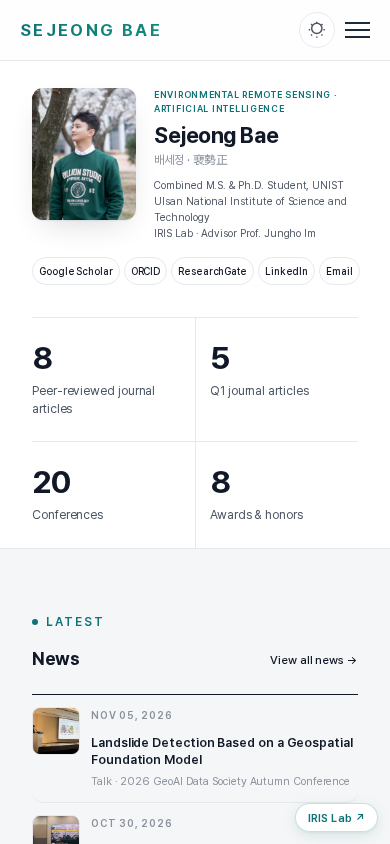
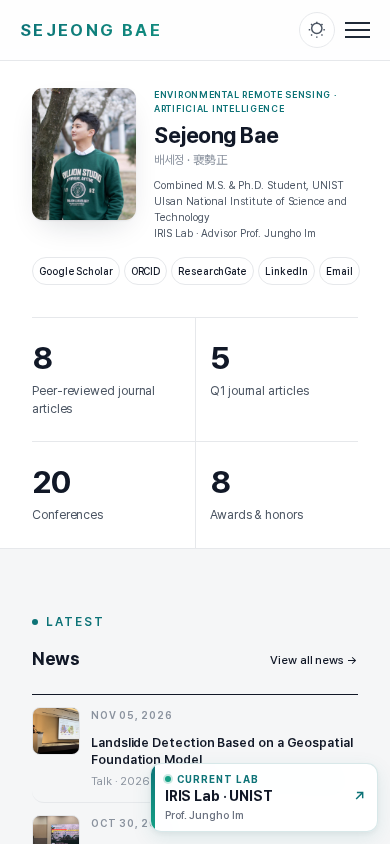
Redesign IRIS float as affiliated-lab card badge
Replace the small pill with a ~248px glass card: CURRENT LAB label, IRIS Lab · UNIST with arrow, and advisor line; KO i18n and dark mode; cache bump v20261125b.

Changed region(s): [[0.3692, 0.8934, 0.7385, 0.9858], [0.7385, 0.9242, 0.9538, 0.9858]]

diff --git a/css/design-refresh.css b/css/design-refresh.css
@@ -581,59 +581,164 @@ body{background:#f5f6f7 !important;font-family:var(--font-sans);letter-spacing:-
 .nav-link.active::after,.nav-link::after{display:none !important}
 .footer{background:transparent !important;border-top:1px solid #e6e8eb;color:#8a929e;font-size:13px}
 
-/* IRIS Lab floating link — all pages */
+/* IRIS Lab floating badge — all pages */
 .iris-lab-float {
   position: fixed;
   right: max(1rem, env(safe-area-inset-right, 0px));
   bottom: max(1rem, env(safe-area-inset-bottom, 0px));
   z-index: 900;
-  display: inline-flex;
-  align-items: center;
-  padding: 0.45rem 0.9rem;
-  font-size: 0.75rem;
-  font-weight: 600;
-  line-height: 1.25;
-  letter-spacing: 0.01em;
-  color: var(--primary-color);
-  background: rgba(255, 255, 255, 0.92);
-  border: 1px solid rgba(13, 115, 119, 0.22);
-  border-radius: 999px;
-  box-shadow: 0 4px 14px rgba(13, 115, 119, 0.12), 0 1px 3px rgba(0, 0, 0, 0.06);
+  display: flex;
+  align-items: stretch;
+  width: min(248px, calc(100vw - 1.75rem));
+  max-width: 260px;
+  min-width: 200px;
+  padding: 0;
+  border-radius: 12px;
+  overflow: hidden;
   text-decoration: none;
-  backdrop-filter: saturate(160%) blur(12px);
-  -webkit-backdrop-filter: saturate(160%) blur(12px);
-  transition: transform 0.2s ease, box-shadow 0.2s ease, color 0.2s ease, border-color 0.2s ease;
+  color: #111827;
+  background: rgba(255, 255, 255, 0.94);
+  border: 1px solid rgba(13, 115, 119, 0.16);
+  box-shadow: 0 6px 20px rgba(13, 115, 119, 0.1), 0 2px 6px rgba(0, 0, 0, 0.05);
+  backdrop-filter: saturate(160%) blur(14px);
+  -webkit-backdrop-filter: saturate(160%) blur(14px);
+  transition: transform 0.22s ease, box-shadow 0.22s ease, border-color 0.22s ease;
+}
+
+.iris-lab-float::before {
+  content: '';
+  width: 4px;
+  flex-shrink: 0;
+  background: linear-gradient(180deg, #0d7377 0%, #14a085 100%);
+}
+
+.iris-lab-float__body {
+  flex: 1;
+  min-width: 0;
+  padding: 0.62rem 0.85rem 0.58rem 0.72rem;
+  display: flex;
+  flex-direction: column;
+  gap: 0.12rem;
+}
+
+.iris-lab-float__label {
+  display: flex;
+  align-items: center;
+  gap: 0.35rem;
+  font-size: 0.625rem;
+  font-weight: 700;
+  letter-spacing: 0.1em;
+  text-transform: uppercase;
+  color: var(--primary-color, #0d7377);
+  line-height: 1.2;
+}
+
+.iris-lab-float__label::before {
+  content: '';
+  width: 6px;
+  height: 6px;
+  border-radius: 50%;
+  background: var(--accent-color, #14a085);
+  box-shadow: 0 0 0 2px rgba(20, 160, 133, 0.22);
+  flex-shrink: 0;
+}
+
+.iris-lab-float__main {
+  display: flex;
+  align-items: center;
+  justify-content: space-between;
+  gap: 0.4rem;
+  font-size: 0.9375rem;
+  font-weight: 600;
+  line-height: 1.35;
+  letter-spacing: -0.01em;
+  color: #111827;
+}
+
+.iris-lab-float__main-text {
+  min-width: 0;
+}
+
+.iris-lab-float__arrow {
+  flex-shrink: 0;
+  font-size: 0.9rem;
+  font-weight: 600;
+  color: var(--primary-color, #0d7377);
+  transition: transform 0.22s ease;
+}
+
+.iris-lab-float__sub {
+  font-size: 0.72rem;
+  font-weight: 500;
+  line-height: 1.3;
+  color: #6b7280;
 }
 
 .iris-lab-float:hover {
-  transform: translateY(-1px);
-  color: var(--accent-color);
-  border-color: rgba(20, 160, 133, 0.45);
-  box-shadow: 0 6px 18px rgba(13, 115, 119, 0.18), 0 2px 6px rgba(0, 0, 0, 0.08);
+  transform: translateY(-3px);
+  border-color: rgba(20, 160, 133, 0.32);
+  box-shadow: 0 10px 28px rgba(13, 115, 119, 0.14), 0 4px 10px rgba(0, 0, 0, 0.07);
+}
+
+.iris-lab-float:hover .iris-lab-float__arrow {
+  transform: translate(1px, -1px);
 }
 
 .iris-lab-float:focus-visible {
-  outline: 2px solid var(--accent-color);
-  outline-offset: 2px;
+  outline: 2px solid var(--accent-color, #14a085);
+  outline-offset: 3px;
 }
 
 html[data-theme='dark'] .iris-lab-float {
+  color: #e8ecf0;
+  background: rgba(22, 27, 33, 0.94);
+  border-color: rgba(95, 214, 180, 0.22);
+  box-shadow: 0 8px 24px rgba(0, 0, 0, 0.45);
+}
+
+html[data-theme='dark'] .iris-lab-float__label {
   color: #5fd6b4;
-  background: rgba(22, 27, 33, 0.92);
-  border-color: rgba(95, 214, 180, 0.28);
-  box-shadow: 0 4px 16px rgba(0, 0, 0, 0.45);
+}
+
+html[data-theme='dark'] .iris-lab-float__label::before {
+  background: #5fd6b4;
+  box-shadow: 0 0 0 2px rgba(95, 214, 180, 0.25);
+}
+
+html[data-theme='dark'] .iris-lab-float__main {
+  color: #f0f3f6;
+}
+
+html[data-theme='dark'] .iris-lab-float__arrow {
+  color: #5fd6b4;
+}
+
+html[data-theme='dark'] .iris-lab-float__sub {
+  color: #9aa5b1;
 }
 
 html[data-theme='dark'] .iris-lab-float:hover {
-  color: #7ee8c9;
-  border-color: rgba(95, 214, 180, 0.5);
+  border-color: rgba(95, 214, 180, 0.45);
 }
 
 @media (max-width: 480px) {
   .iris-lab-float {
     right: max(0.75rem, env(safe-area-inset-right, 0px));
     bottom: max(0.75rem, env(safe-area-inset-bottom, 0px));
-    font-size: 0.7rem;
-    padding: 0.4rem 0.75rem;
+    width: min(228px, calc(100vw - 1.25rem));
+    min-width: 0;
+    border-radius: 11px;
+  }
+
+  .iris-lab-float__body {
+    padding: 0.55rem 0.72rem 0.52rem 0.62rem;
+  }
+
+  .iris-lab-float__main {
+    font-size: 0.875rem;
+  }
+
+  .iris-lab-float__sub {
+    font-size: 0.69rem;
   }
 }

diff --git a/script.js b/script.js
@@ -98,7 +98,10 @@ const translations = {
             title: 'News'
         },
         float: {
-            irisLab: 'IRIS Lab ↗'
+            currentLab: 'CURRENT LAB',
+            irisMain: 'IRIS Lab · UNIST',
+            advisor: 'Prof. Jungho Im',
+            ariaLabel: 'Visit IRIS Lab at UNIST'
         }
     },
     ko: {
@@ -197,7 +200,10 @@ const translations = {
             title: '소식'
         },
         float: {
-            irisLab: 'IRIS 연구실 ↗'
+            currentLab: '현재 소속',
+            irisMain: 'IRIS Lab · UNIST',
+            advisor: '임정호 교수',
+            ariaLabel: 'UNIST IRIS 연구실 방문'
         }
     }
 };
@@ -226,6 +232,23 @@ function applyDataI18n(lang) {
             } else {
                 element.textContent = translation;
             }
+        }
+    });
+
+    document.querySelectorAll('[data-i18n-aria]').forEach((element) => {
+        const key = element.getAttribute('data-i18n-aria');
+        const keys = key.split('.');
+        let translation = translations[lang];
+        for (let i = 0; i < keys.length; i++) {
+            if (translation && translation[keys[i]]) {
+                translation = translation[keys[i]];
+            } else {
+                translation = null;
+                break;
+            }
+        }
+        if (translation) {
+            element.setAttribute('aria-label', translation);
         }
     });
 }

diff --git a/index.html b/index.html
@@ -8,7 +8,7 @@
     <script>(function(){try{var q=new URLSearchParams(location.search),qt=q.get("theme"),ql=q.get("lang");if(qt==="dark"||qt==="light")localStorage.setItem("site-theme",qt);if(ql==="ko"||ql==="en")localStorage.setItem("language",ql);var t=localStorage.getItem("site-theme");if(!t&&window.matchMedia&&matchMedia("(prefers-color-scheme: dark)").matches)t="dark";document.documentElement.setAttribute("data-theme",t==="dark"?"dark":"light");}catch(e){}})();</script>
     <link rel="icon" type="image/svg+xml" href="/favicon.svg">
     <link rel="stylesheet" href="style.css?v=20260427j">
-    <link rel="stylesheet" href="css/design-refresh.css?v=20261125a">
+    <link rel="stylesheet" href="css/design-refresh.css?v=20261125b">
     <link rel="stylesheet" href="css/home.css?v=20261016v3">
     <link rel="stylesheet" href="css/pages.css?v=20261101a">
 </head>
@@ -55,8 +55,8 @@
     </footer>
 
     <script src="js/site-render.js?v=20261016a"></script>
-    <script src="script.js?v=20261125a"></script>
-    <script src="js/design-refresh.js?v=20261125a"></script>
+    <script src="script.js?v=20261125b"></script>
+    <script src="js/design-refresh.js?v=20261125b"></script>
     <script src="js/home.js?v=20261016v3"></script>
     <script src="js/pages.js?v=20261017a"></script>
 </body>

diff --git a/about/index.html b/about/index.html
@@ -8,7 +8,7 @@
     <script>(function(){try{var q=new URLSearchParams(location.search),qt=q.get("theme"),ql=q.get("lang");if(qt==="dark"||qt==="light")localStorage.setItem("site-theme",qt);if(ql==="ko"||ql==="en")localStorage.setItem("language",ql);var t=localStorage.getItem("site-theme");if(!t&&window.matchMedia&&matchMedia("(prefers-color-scheme: dark)").matches)t="dark";document.documentElement.setAttribute("data-theme",t==="dark"?"dark":"light");}catch(e){}})();</script>
     <link rel="icon" type="image/svg+xml" href="/favicon.svg">
     <link rel="stylesheet" href="../style.css?v=20260427j">
-    <link rel="stylesheet" href="../css/design-refresh.css?v=20261125a">
+    <link rel="stylesheet" href="../css/design-refresh.css?v=20261125b">
     <link rel="stylesheet" href="../css/pages.css?v=20261101a">
 </head>
 <body class="page-v4">
@@ -125,8 +125,8 @@
 
     <script src="../data/site-data.js?v=20261030a"></script>
     <script src="../js/site-render.js?v=20261016a"></script>
-    <script src="../script.js?v=20261125a"></script>
-    <script src="../js/design-refresh.js?v=20261125a"></script>
+    <script src="../script.js?v=20261125b"></script>
+    <script src="../js/design-refresh.js?v=20261125b"></script>
     <script src="../js/pages.js?v=20261017a"></script>
 </body>
 </html>

diff --git a/conference/index.html b/conference/index.html
@@ -8,7 +8,7 @@
     <script>(function(){try{var q=new URLSearchParams(location.search),qt=q.get("theme"),ql=q.get("lang");if(qt==="dark"||qt==="light")localStorage.setItem("site-theme",qt);if(ql==="ko"||ql==="en")localStorage.setItem("language",ql);var t=localStorage.getItem("site-theme");if(!t&&window.matchMedia&&matchMedia("(prefers-color-scheme: dark)").matches)t="dark";document.documentElement.setAttribute("data-theme",t==="dark"?"dark":"light");}catch(e){}})();</script>
     <link rel="icon" type="image/svg+xml" href="/favicon.svg">
     <link rel="stylesheet" href="../style.css?v=20260427j">
-    <link rel="stylesheet" href="../css/design-refresh.css?v=20261125a">
+    <link rel="stylesheet" href="../css/design-refresh.css?v=20261125b">
     <link rel="stylesheet" href="../css/pages.css?v=20261101a">
 </head>
 <body class="page-v4">
@@ -71,8 +71,8 @@
 
     <script src="../data/site-data.js?v=20261030a"></script>
     <script src="../js/site-render.js?v=20261030e"></script>
-    <script src="../script.js?v=20261125a"></script>
-    <script src="../js/design-refresh.js?v=20261125a"></script>
+    <script src="../script.js?v=20261125b"></script>
+    <script src="../js/design-refresh.js?v=20261125b"></script>
     <script src="../js/pages.js?v=20261030d"></script>
 </body>
 </html>

diff --git a/others/index.html b/others/index.html
@@ -8,7 +8,7 @@
     <script>(function(){try{var q=new URLSearchParams(location.search),qt=q.get("theme"),ql=q.get("lang");if(qt==="dark"||qt==="light")localStorage.setItem("site-theme",qt);if(ql==="ko"||ql==="en")localStorage.setItem("language",ql);var t=localStorage.getItem("site-theme");if(!t&&window.matchMedia&&matchMedia("(prefers-color-scheme: dark)").matches)t="dark";document.documentElement.setAttribute("data-theme",t==="dark"?"dark":"light");}catch(e){}})();</script>
     <link rel="icon" type="image/svg+xml" href="/favicon.svg">
     <link rel="stylesheet" href="../style.css?v=20260427j">
-    <link rel="stylesheet" href="../css/design-refresh.css?v=20261125a">
+    <link rel="stylesheet" href="../css/design-refresh.css?v=20261125b">
     <link rel="stylesheet" href="../css/pages.css?v=20261101a">
 </head>
 <body class="page-v4">
@@ -69,8 +69,8 @@
 
     <script src="../data/site-data.js?v=20261030a"></script>
     <script src="../js/site-render.js?v=20261016a"></script>
-    <script src="../script.js?v=20261125a"></script>
-    <script src="../js/design-refresh.js?v=20261125a"></script>
+    <script src="../script.js?v=20261125b"></script>
+    <script src="../js/design-refresh.js?v=20261125b"></script>
     <script src="../js/pages.js?v=20261017a"></script>
 </body>
 </html>

diff --git a/publications/index.html b/publications/index.html
@@ -8,7 +8,7 @@
     <script>(function(){try{var q=new URLSearchParams(location.search),qt=q.get("theme"),ql=q.get("lang");if(qt==="dark"||qt==="light")localStorage.setItem("site-theme",qt);if(ql==="ko"||ql==="en")localStorage.setItem("language",ql);var t=localStorage.getItem("site-theme");if(!t&&window.matchMedia&&matchMedia("(prefers-color-scheme: dark)").matches)t="dark";document.documentElement.setAttribute("data-theme",t==="dark"?"dark":"light");}catch(e){}})();</script>
     <link rel="icon" type="image/svg+xml" href="/favicon.svg">
     <link rel="stylesheet" href="../style.css?v=20260427j">
-    <link rel="stylesheet" href="../css/design-refresh.css?v=20261125a">
+    <link rel="stylesheet" href="../css/design-refresh.css?v=20261125b">
     <link rel="stylesheet" href="../css/pages.css?v=20261101a">
 </head>
 <body class="page-v4">
@@ -62,8 +62,8 @@
 
     <script src="../data/site-data.js?v=20261030a"></script>
     <script src="../js/site-render.js?v=20261016a"></script>
-    <script src="../script.js?v=20261125a"></script>
-    <script src="../js/design-refresh.js?v=20261125a"></script>
+    <script src="../script.js?v=20261125b"></script>
+    <script src="../js/design-refresh.js?v=20261125b"></script>
     <script src="../js/pages.js?v=20261017a"></script>
 </body>
 </html>

diff --git a/news/index.html b/news/index.html
@@ -8,7 +8,7 @@
     <script>(function(){try{var q=new URLSearchParams(location.search),qt=q.get("theme"),ql=q.get("lang");if(qt==="dark"||qt==="light")localStorage.setItem("site-theme",qt);if(ql==="ko"||ql==="en")localStorage.setItem("language",ql);var t=localStorage.getItem("site-theme");if(!t&&window.matchMedia&&matchMedia("(prefers-color-scheme: dark)").matches)t="dark";document.documentElement.setAttribute("data-theme",t==="dark"?"dark":"light");}catch(e){}})();</script>
     <link rel="icon" type="image/svg+xml" href="/favicon.svg">
     <link rel="stylesheet" href="../style.css?v=20260427j">
-    <link rel="stylesheet" href="../css/design-refresh.css?v=20261125a">
+    <link rel="stylesheet" href="../css/design-refresh.css?v=20261125b">
     <link rel="stylesheet" href="../css/pages.css?v=20261101a">
 </head>
 <body class="page-v4">
@@ -64,8 +64,8 @@
     </footer>
 
     <script src="../js/site-render.js?v=20261016a"></script>
-    <script src="../script.js?v=20261125a"></script>
-    <script src="../js/design-refresh.js?v=20261125a"></script>
+    <script src="../script.js?v=20261125b"></script>
+    <script src="../js/design-refresh.js?v=20261125b"></script>
     <script src="../js/pages.js?v=20261017a"></script>
 </body>
 </html>

diff --git a/js/design-refresh.js b/js/design-refresh.js
@@ -44,9 +44,17 @@
     link.href = IRIS_LAB_URL;
     link.target = '_blank';
     link.rel = 'noopener noreferrer';
-    link.setAttribute('data-i18n', 'float.irisLab');
-    link.setAttribute('aria-label', 'IRIS Lab homepage');
-    link.textContent = 'IRIS Lab ↗';
+    link.setAttribute('data-i18n-aria', 'float.ariaLabel');
+    link.setAttribute('aria-label', 'Visit IRIS Lab at UNIST');
+    link.innerHTML =
+      '<span class="iris-lab-float__body">' +
+      '<span class="iris-lab-float__label" data-i18n="float.currentLab">CURRENT LAB</span>' +
+      '<span class="iris-lab-float__main">' +
+      '<span class="iris-lab-float__main-text" data-i18n="float.irisMain">IRIS Lab · UNIST</span>' +
+      '<span class="iris-lab-float__arrow" aria-hidden="true">↗</span>' +
+      '</span>' +
+      '<span class="iris-lab-float__sub" data-i18n="float.advisor">Prof. Jungho Im</span>' +
+      '</span>';
     document.body.appendChild(link);
   }
 
